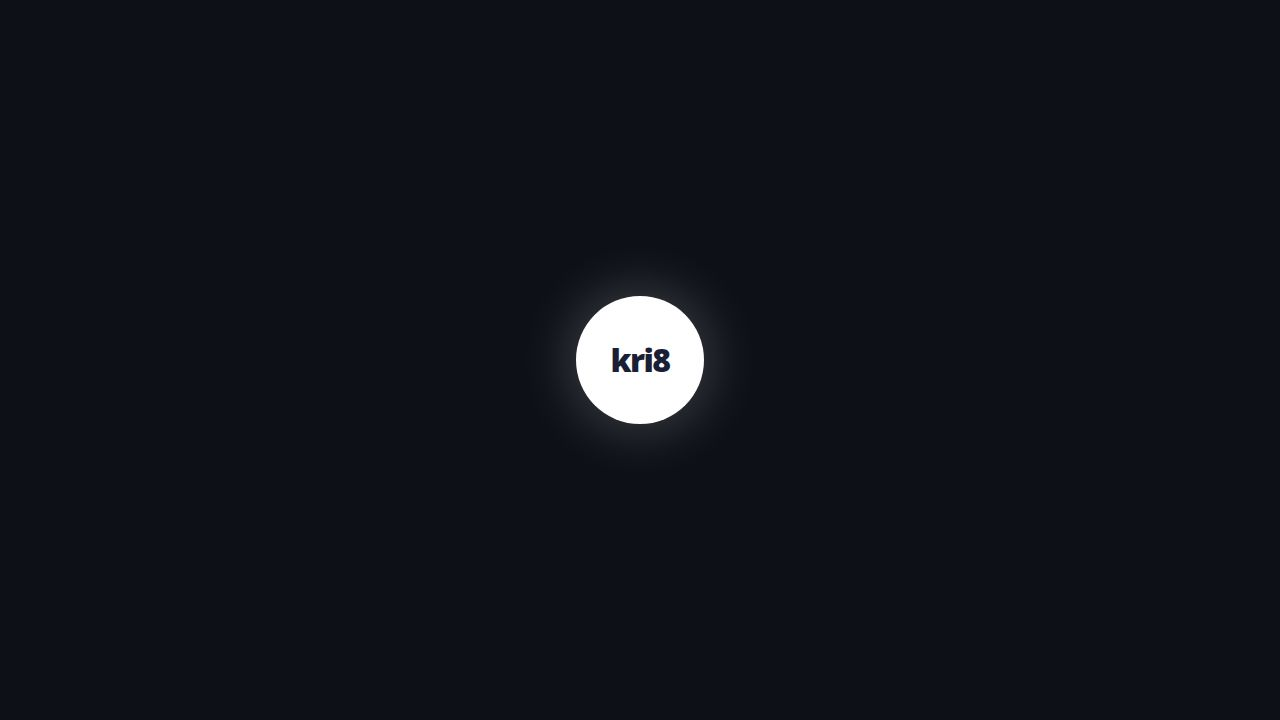
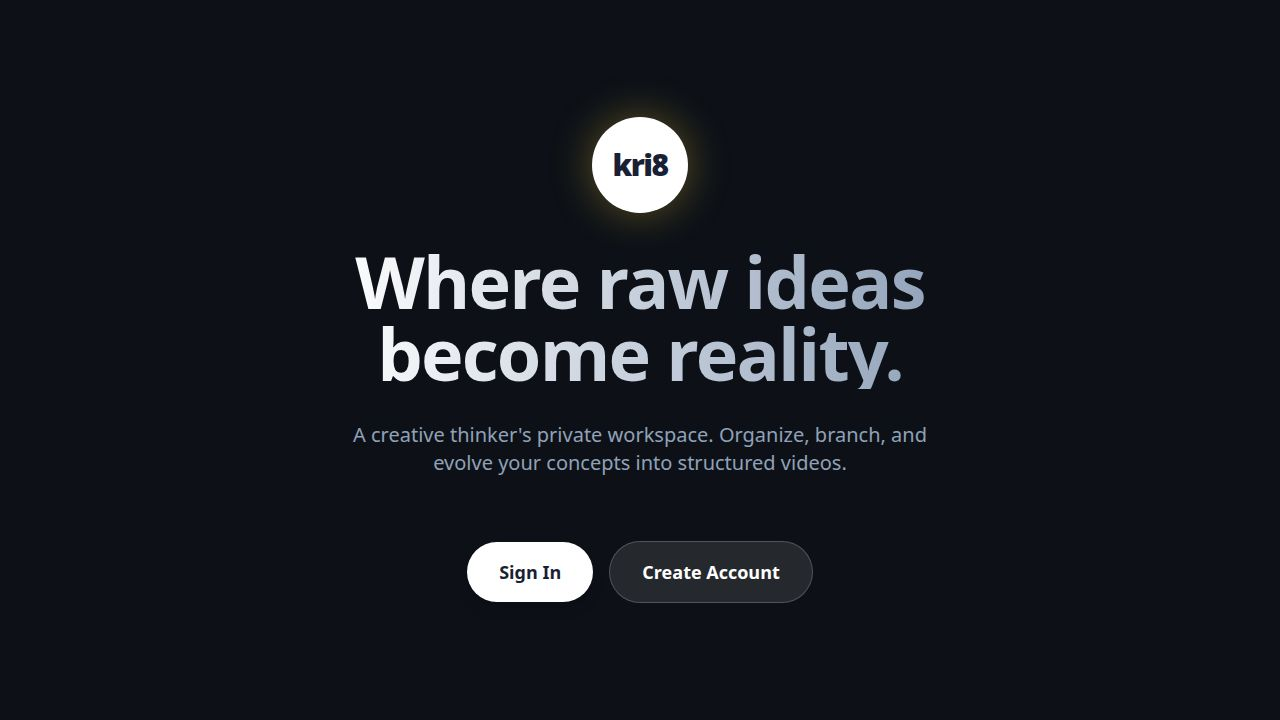
Fix issue with an invalid Clerk publishable key
Correct a corrupted character in the `CLERK_PUBLISHABLE_KEY` environment variable to resolve backend authentication errors and ensure all API endpoints function correctly.

Replit-Commit-Author: Agent
Replit-Commit-Session-Id: 982c6172-3c0d-407b-af7f-806a8a49bd3e
Replit-Commit-Checkpoint-Type: full_checkpoint
Replit-Commit-Event-Id: 94149289-561b-4a9a-82d9-af94c4e59ad0
Replit-Commit-Screenshot-Url: https://storage.googleapis.com/screenshot-production-us-central1/72cd7562-a118-4d21-ae1e-7b9fbfdf41ac/982c6172-3c0d-407b-af7f-806a8a49bd3e/MmUpEfz

Changed region(s): [[0.2812, 0.3361, 0.7188, 0.6722], [0.3438, 0.7333, 0.625, 0.8556], [0.4375, 0.1528, 0.5625, 0.3056]]

diff --git a/artifacts/kri8/src/App.tsx b/artifacts/kri8/src/App.tsx
@@ -1,27 +1,44 @@
 import { useEffect, useRef, type ReactNode } from "react";
-import { Switch, Route, useLocation, Router as WouterRouter, Redirect } from 'wouter';
-import { ClerkProvider, SignIn, SignUp, useClerk, useUser, Show } from '@clerk/react';
+import {
+  Switch,
+  Route,
+  useLocation,
+  Router as WouterRouter,
+  Redirect,
+} from "wouter";
+import {
+  ClerkProvider,
+  SignIn,
+  SignUp,
+  useClerk,
+  useUser,
+  Show,
+} from "@clerk/react";
 import { QueryClientProvider, useQueryClient } from "@tanstack/react-query";
 import { queryClient } from "./lib/queryClient";
 import { Toaster } from "@/components/ui/toaster";
-import { applyTheme } from './lib/themes';
-import { useGetMe } from '@workspace/api-client-react';
-import { DevAuthProvider, DevSignInPage } from './lib/devAuth';
-import { AppUserProvider, type AppUserCtx } from './lib/AppUserContext';
+import { applyTheme } from "./lib/themes";
+import { useGetMe } from "@workspace/api-client-react";
+import { DevAuthProvider, DevSignInPage } from "./lib/devAuth";
+import { AppUserProvider, type AppUserCtx } from "./lib/AppUserContext";
 
-import Dashboard from './pages/dashboard';
-import IdeaDetail from './pages/idea-detail';
-import Settings from './pages/settings';
-import PublicProfile from './pages/public-profile';
-import CalendarPage from './pages/calendar';
-import SocialPage from './pages/social';
-import MessagesPage from './pages/messages';
-import TrendsPage from './pages/trends';
-import { ErrorBoundary } from './components/ErrorBoundary';
+import Dashboard from "./pages/dashboard";
+import IdeaDetail from "./pages/idea-detail";
+import Settings from "./pages/settings";
+import PublicProfile from "./pages/public-profile";
+import CalendarPage from "./pages/calendar";
+import SocialPage from "./pages/social";
+import MessagesPage from "./pages/messages";
+import TrendsPage from "./pages/trends";
+import { ErrorBoundary } from "./components/ErrorBoundary";
 
 // ─── Constants ────────────────────────────────────────────────────────────────
 
-const clerkPubKey = import.meta.env.VITE_CLERK_PUBLISHABLE_KEY as string | undefined;
+const clerkPubKey = import.meta.env.VITE_CLERK_PUBLISHABLE_KEY as
+  | string
+  | undefined;
+console.log("PUB KEY:", clerkPubKey);
+console.log("ENV:", import.meta.env);
 const IS_DEV_MODE = !clerkPubKey;
 const basePath = import.meta.env.BASE_URL.replace(/\/$/, "");
 
@@ -38,9 +55,9 @@ function stripBase(path: string): string {
 }
 
 function dismissSplash() {
-  const splash = document.getElementById('kri8-splash');
-  if (splash && !splash.classList.contains('fade-out')) {
-    splash.classList.add('fade-out');
+  const splash = document.getElementById("kri8-splash");
+  if (splash && !splash.classList.contains("fade-out")) {
+    splash.classList.add("fade-out");
     setTimeout(() => splash.remove(), 500);
   }
 }
@@ -53,7 +70,9 @@ function LoadingScreen() {
       <div className="relative flex items-center justify-center">
         <div className="absolute inset-0 rounded-full bg-white animate-ping opacity-20 w-32 h-32"></div>
         <div className="w-32 h-32 bg-white rounded-full flex items-center justify-center shadow-[0_0_40px_rgba(255,255,255,0.3)] z-10">
-          <span className="text-4xl font-black text-[#1a1f35] tracking-tighter">kri8</span>
+          <span className="text-4xl font-black text-[#1a1f35] tracking-tighter">
+            kri8
+          </span>
         </div>
       </div>
     </div>
@@ -62,7 +81,9 @@ function LoadingScreen() {
 
 // Gate: fetches current user from DB, applies theme, then dismisses splash
 function AppGate({ children }: { children: ReactNode }) {
-  const { data: userProfile, isLoading } = useGetMe({ query: { enabled: true, retry: false, queryKey: [] } });
+  const { data: userProfile, isLoading } = useGetMe({
+    query: { enabled: true, retry: false, queryKey: [] },
+  });
 
   useEffect(() => {
     if (userProfile?.themePreference) applyTheme(userProfile.themePreference);
@@ -79,7 +100,9 @@ function AppGate({ children }: { children: ReactNode }) {
 // ─── DEV MODE (local fallback — Clerk keys absent) ────────────────────────────
 
 function DevKeysMissing() {
-  useEffect(() => { dismissSplash(); }, []);
+  useEffect(() => {
+    dismissSplash();
+  }, []);
   return (
     <div className="flex min-h-[100dvh] items-center justify-center bg-[#0d1117] text-white">
       <div className="text-center space-y-4 p-8 rounded-2xl bg-white/5 border border-white/10 max-w-sm w-full">
@@ -88,8 +111,10 @@ function DevKeysMissing() {
         </div>
         <h2 className="text-xl font-bold">Authentication Not Configured</h2>
         <p className="text-slate-400 text-sm">
-          Set <code className="text-yellow-300">VITE_CLERK_PUBLISHABLE_KEY</code> and{" "}
-          <code className="text-yellow-300">CLERK_SECRET_KEY</code> to enable authentication.
+          Set{" "}
+          <code className="text-yellow-300">VITE_CLERK_PUBLISHABLE_KEY</code>{" "}
+          and <code className="text-yellow-300">CLERK_SECRET_KEY</code> to
+          enable authentication.
         </p>
       </div>
     </div>
@@ -99,10 +124,20 @@ function DevKeysMissing() {
 function DevRoutes() {
   return (
     <Switch>
-      <Route path="/sign-in/*?"><DevSignInPage basePath={basePath} /></Route>
-      <Route path="/sign-up/*?"><DevSignInPage basePath={basePath} /></Route>
-      <Route path="/profile/:username"><ErrorBoundary><PublicProfile /></ErrorBoundary></Route>
-      <Route><DevKeysMissing /></Route>
+      <Route path="/sign-in/*?">
+        <DevSignInPage basePath={basePath} />
+      </Route>
+      <Route path="/sign-up/*?">
+        <DevSignInPage basePath={basePath} />
+      </Route>
+      <Route path="/profile/:username">
+        <ErrorBoundary>
+          <PublicProfile />
+        </ErrorBoundary>
+      </Route>
+      <Route>
+        <DevKeysMissing />
+      </Route>
     </Switch>
   );
 }
@@ -139,7 +174,8 @@ function ClerkUserBridge({ children }: { children: ReactNode }) {
         }
       : null,
     isLoaded,
-    signOut: (opts) => signOut({ redirectUrl: opts?.redirectUrl ?? landingUrl }),
+    signOut: (opts) =>
+      signOut({ redirectUrl: opts?.redirectUrl ?? landingUrl }),
   };
 
   return <AppUserProvider value={value}>{children}</AppUserProvider>;
@@ -162,7 +198,8 @@ function ClerkQueryCacheInvalidator() {
   useEffect(() => {
     return addListener(({ user }: any) => {
       const uid = user?.id ?? null;
-      if (prevIdRef.current !== undefined && prevIdRef.current !== uid) qc.clear();
+      if (prevIdRef.current !== undefined && prevIdRef.current !== uid)
+        qc.clear();
       prevIdRef.current = uid;
     });
   }, [addListener, qc]);
@@ -186,22 +223,39 @@ function ClerkProtect({ children }: { children: ReactNode }) {
 function ClerkRoutes() {
   const HomeRedirect = () => (
     <>
-      <Show when="signed-in"><Redirect to="/dashboard" /></Show>
+      <Show when="signed-in">
+        <Redirect to="/dashboard" />
+      </Show>
       <Show when="signed-out">
         <div className="flex min-h-[100dvh] items-center justify-center bg-[#0d1117] text-white">
           <div className="text-center space-y-8 max-w-2xl px-6">
             <div className="w-24 h-24 bg-white rounded-full flex items-center justify-center mx-auto mb-8 shadow-[0_0_40px_rgba(212,175,55,0.4)]">
-              <span className="text-3xl font-black text-[#1a1f35] tracking-tighter">kri8</span>
+              <span className="text-3xl font-black text-[#1a1f35] tracking-tighter">
+                kri8
+              </span>
             </div>
             <h1 className="text-5xl md:text-7xl font-bold tracking-tight text-transparent bg-clip-text bg-gradient-to-r from-white to-slate-400">
-              Where raw ideas<br />become reality.
+              Where raw ideas
+              <br />
+              become reality.
             </h1>
             <p className="text-xl text-slate-400">
-              A creative thinker's private workspace. Organize, branch, and evolve your concepts into structured videos.
+              A creative thinker's private workspace. Organize, branch, and
+              evolve your concepts into structured videos.
             </p>
             <div className="flex items-center justify-center gap-4 pt-8">
-              <a href={`${basePath}/sign-in`} className="px-8 py-4 bg-white text-[#1a1f35] rounded-full font-bold text-lg hover:bg-slate-200 transition-colors shadow-lg">Sign In</a>
-              <a href={`${basePath}/sign-up`} className="px-8 py-4 bg-white/10 text-white rounded-full font-bold text-lg hover:bg-white/20 border border-white/20 transition-colors">Create Account</a>
+              <a
+                href={`${basePath}/sign-in`}
+                className="px-8 py-4 bg-white text-[#1a1f35] rounded-full font-bold text-lg hover:bg-slate-200 transition-colors shadow-lg"
+              >
+                Sign In
+              </a>
+              <a
+                href={`${basePath}/sign-up`}
+                className="px-8 py-4 bg-white/10 text-white rounded-full font-bold text-lg hover:bg-white/20 border border-white/20 transition-colors"
+              >
+                Create Account
+              </a>
             </div>
           </div>
         </div>
@@ -215,27 +269,87 @@ function ClerkRoutes() {
       <Route path="/sign-in/*?">
         <div className="flex min-h-[100dvh] items-center justify-center bg-[#0d1117] px-4">
           <div className="z-10 w-full max-w-[440px]">
-            <SignIn routing="path" path={`${basePath}/sign-in`} signUpUrl={`${basePath}/sign-up`} fallbackRedirectUrl={`${basePath}/dashboard`} />
+            <SignIn
+              routing="path"
+              path={`${basePath}/sign-in`}
+              signUpUrl={`${basePath}/sign-up`}
+              fallbackRedirectUrl={`${basePath}/dashboard`}
+            />
           </div>
         </div>
       </Route>
       <Route path="/sign-up/*?">
         <div className="flex min-h-[100dvh] items-center justify-center bg-[#0d1117] px-4">
           <div className="z-10 w-full max-w-[440px]">
-            <SignUp routing="path" path={`${basePath}/sign-up`} signInUrl={`${basePath}/sign-in`} fallbackRedirectUrl={`${basePath}/dashboard`} />
+            <SignUp
+              routing="path"
+              path={`${basePath}/sign-up`}
+              signInUrl={`${basePath}/sign-in`}
+              fallbackRedirectUrl={`${basePath}/dashboard`}
+            />
           </div>
         </div>
       </Route>
 
-      <Route path="/dashboard"><ClerkProtect><ErrorBoundary><Dashboard /></ErrorBoundary></ClerkProtect></Route>
-      <Route path="/ideas/:id"><ClerkProtect><ErrorBoundary><IdeaDetail /></ErrorBoundary></ClerkProtect></Route>
-      <Route path="/settings"><ClerkProtect><ErrorBoundary><Settings /></ErrorBoundary></ClerkProtect></Route>
-      <Route path="/calendar"><ClerkProtect><ErrorBoundary><CalendarPage /></ErrorBoundary></ClerkProtect></Route>
-      <Route path="/social"><ClerkProtect><ErrorBoundary><SocialPage /></ErrorBoundary></ClerkProtect></Route>
-      <Route path="/messages"><ClerkProtect><ErrorBoundary><MessagesPage /></ErrorBoundary></ClerkProtect></Route>
-      <Route path="/trends"><ClerkProtect><ErrorBoundary><TrendsPage /></ErrorBoundary></ClerkProtect></Route>
-      <Route path="/profile/:username"><ErrorBoundary><PublicProfile /></ErrorBoundary></Route>
-      <Route><div className="flex min-h-screen items-center justify-center bg-[#0d1117] text-white">404 - Not Found</div></Route>
+      <Route path="/dashboard">
+        <ClerkProtect>
+          <ErrorBoundary>
+            <Dashboard />
+          </ErrorBoundary>
+        </ClerkProtect>
+      </Route>
+      <Route path="/ideas/:id">
+        <ClerkProtect>
+          <ErrorBoundary>
+            <IdeaDetail />
+          </ErrorBoundary>
+        </ClerkProtect>
+      </Route>
+      <Route path="/settings">
+        <ClerkProtect>
+          <ErrorBoundary>
+            <Settings />
+          </ErrorBoundary>
+        </ClerkProtect>
+      </Route>
+      <Route path="/calendar">
+        <ClerkProtect>
+          <ErrorBoundary>
+            <CalendarPage />
+          </ErrorBoundary>
+        </ClerkProtect>
+      </Route>
+      <Route path="/social">
+        <ClerkProtect>
+          <ErrorBoundary>
+            <SocialPage />
+          </ErrorBoundary>
+        </ClerkProtect>
+      </Route>
+      <Route path="/messages">
+        <ClerkProtect>
+          <ErrorBoundary>
+            <MessagesPage />
+          </ErrorBoundary>
+        </ClerkProtect>
+      </Route>
+      <Route path="/trends">
+        <ClerkProtect>
+          <ErrorBoundary>
+            <TrendsPage />
+          </ErrorBoundary>
+        </ClerkProtect>
+      </Route>
+      <Route path="/profile/:username">
+        <ErrorBoundary>
+          <PublicProfile />
+        </ErrorBoundary>
+      </Route>
+      <Route>
+        <div className="flex min-h-screen items-center justify-center bg-[#0d1117] text-white">
+          404 - Not Found
+        </div>
+      </Route>
     </Switch>
   );
 }
@@ -259,7 +373,8 @@ function ClerkApp() {
     },
     elements: {
       rootBox: "w-full flex justify-center",
-      cardBox: "bg-[#1a1f35] rounded-2xl w-[440px] max-w-full overflow-hidden shadow-2xl border border-white/10",
+      cardBox:
+        "bg-[#1a1f35] rounded-2xl w-[440px] max-w-full overflow-hidden shadow-2xl border border-white/10",
       card: "!shadow-none !border-0 !bg-transparent !rounded-none",
       footer: "!shadow-none !border-0 !bg-transparent !rounded-none",
       headerTitle: "text-white font-bold text-2xl",

diff --git a/artifacts/api-server/src/app.ts b/artifacts/api-server/src/app.ts
@@ -5,7 +5,6 @@ import { clerkMiddleware } from "@clerk/express";
 import {
   CLERK_PROXY_PATH,
   clerkProxyMiddleware,
-  getClerkProxyHost,
 } from "./middlewares/clerkProxyMiddleware";
 import { globalLimiter, writeLimiter } from "./middlewares/rateLimit";
 import { isDevMode, devAuthMiddleware } from "./middlewares/devAuthMiddleware";
@@ -46,17 +45,12 @@ app.use(express.json());
 app.use(express.urlencoded({ extended: true }));
 
 if (!isDevMode) {
-  app.use((req, res, next) => {
-    const protocol = (req.headers["x-forwarded-proto"] as string) || "https";
-    const host = getClerkProxyHost(req) || "";
-    const proxyUrl = host ? `${protocol}://${host}${CLERK_PROXY_PATH}` : undefined;
-
-    return clerkMiddleware({
+  app.use(
+    clerkMiddleware({
       publishableKey: process.env.CLERK_PUBLISHABLE_KEY,
       secretKey: process.env.CLERK_SECRET_KEY,
-      ...(proxyUrl ? { proxyUrl } : {}),
-    })(req, res, next);
-  });
+    }),
+  );
 } else {
   logger.warn(
     "⚠️  Dev mode: Clerk keys missing — authentication is disabled",